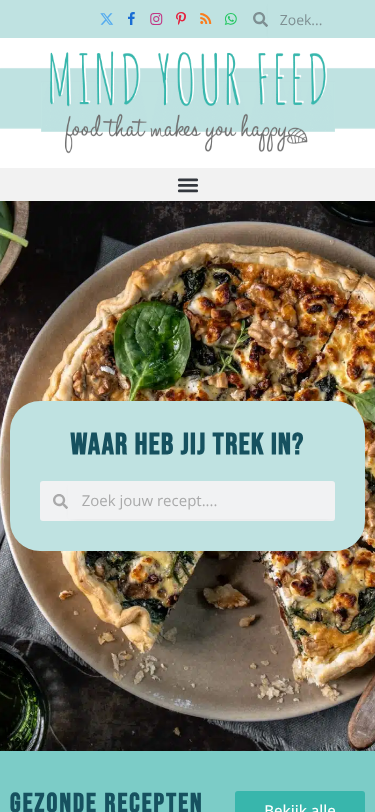
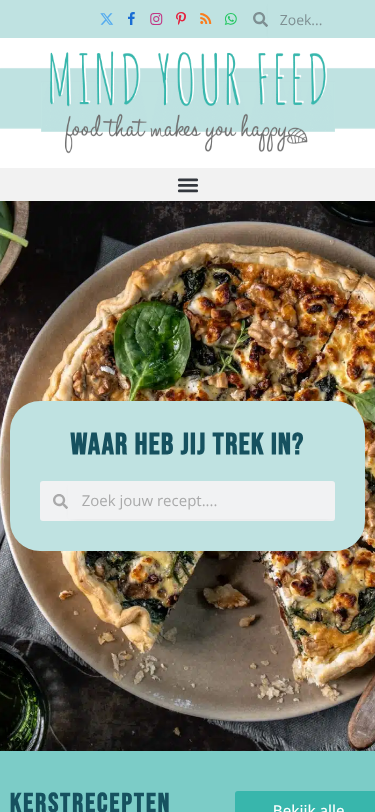
Carrousel /kerst/ hersteld en gecontroleerd; metingen
Claude-Session: https://claude.ai/code/session_01JBZXqu2oGCoAAGo6aGaeXU

Changed region(s): [[0.0293, 0.9544, 0.5573, 1.0], [0.704, 0.9852, 0.9093, 1.0], [0.968, 0.9544, 1.0, 1.0]]

diff --git a/WIJZIGINGEN.md b/WIJZIGINGEN.md
@@ -5,6 +5,7 @@ en de meetwaarden voor/na (Lighthouse mobiel: score, LCP).
 
 | Datum | Pagina / post | Wat is er gewijzigd | Waarom | Snelheid voor → na |
 |---|---|---|---|---|
+| 2026-11-27 | Hele site – WP Rocket; Kerst (`/kerst/`) | Uitzonderingen `/wp-includes/js/jquery/ui/core.min.js` en `uiBackCompat` toegevoegd aan 'JavaScript-uitvoering uitstellen' door eigenaar (totaal 15). Live gecontroleerd: carrousel 'Populaire kerstrecepten' start, pijlen schuiven, 1 slide op mobiel / 3 op desktop, geen JS-fouten. Regressie Home + post: menu, foto's, slideshow, zoeken, receptkaart, nieuwsbrief ok. Screenshots `metingen/screenshots/2026-11-27_kerst-carrousel_*` | Herstel carrousel | Kerst 54–62; Home 60–61 (was 59) |
 | 2026-11-27 | Kerst (`/kerst/`), Loop carrousel 'Populaire kerstrecepten' | **Probleem gemeld door eigenaar:** carrousel werkt niet voor uitgelogde bezoekers (één uitgerekte slide, pijlen doen niets). **Oorzaak:** WP Rocket 'JavaScript-uitvoering uitstellen' stelt jQuery UI core (`/wp-includes/js/jquery/ui/core.min.js` + inline `jQuery.uiBackCompat`) uit; Elementor gebruikt de jQuery UI-selector `:focusable` eerder → fout `unsupported pseudo: focusable` → Elementor-init stopt, `swiper.min.js` wordt nooit geladen. Met `?nowprocket=1` werkt het wel. **Oplossing getest** (testbrowser, live HTML): jQuery UI core uitzonderen → carrousel start, pijlen schuiven, geen fouten (375 en 1440px) | Herstel carrousel | – |
 | 2026-11-25 | – (cloudomgeving) | `www.google.com` en `www.gstatic.com` toegestaan in de omgeving MindYourfeed (op verzoek eigenaar) | reCAPTCHA van het nieuwsbriefformulier live kunnen controleren | – |
 | 2026-11-25 | Hele site – WP Rocket | **Ontbrekende afbeeldingsafmetingen toevoegen** aangezet door eigenaar. Gecontroleerd: avocado-post 22/23 en speculaas-post 17/21 afbeeldingen kregen breedte/hoogte; `Goulash-1-2.jpg` ook. Overgebleven: alleen afbeeldingen op de externe S3-server (slaat WP Rocket over). Visueel pixel voor pixel identiek (avocado, speculaas, post, Home × 375/768/1440 + menu); geen vervormde foto's (verhouding gecontroleerd) | Stap 5 van het WP Rocket-plan | Avocado 63–64 → 59–62, speculaas 59–64 → 58–61 (binnen meetruis); CLS 0 blijft 0 |

diff --git a/TODO.md b/TODO.md
@@ -1,7 +1,6 @@
 # Todo
 
 ## Nu
-- [ ] **Carrousel /kerst/ kapot voor bezoekers:** eigenaar voegt bij 'JavaScript-uitvoering uitstellen' de uitzonderingen `/wp-includes/js/jquery/ui/core.min.js` en `uiBackCompat` toe; daarna live controleren (/kerst/ + menu/foto's op home en post).
 - [ ] Kerstrecepten-formulier (`formulieren/nieuwsbrief-kerstrecepten.html`) eerst testen op een conceptpagina: zelfde ID's als het footerformulier (sib-form, EMAIL, OPT_IN …). Controleren dat beide formulieren werken (melding + adres in juiste Brevo-lijst). Werkt het niet samen: Brevo-iframe-variant gebruiken voor één van beide.
 - [ ] Nieuwsbriefformulier footer: reCAPTCHA v3 werkt live (badge + token na scrollen). Nog te doen door eigenaar: één echte testinschrijving (bevestigingsmelding? adres in Brevo?).
 - [ ] Eigenaar: advertenties (Mediavine) controleren op telefoon, vóór en na eerste scroll; en snelheid laten meten met PageSpeed Insights of Rocket Insights (echte winst van stap 2 zichtbaar met advertenties).
@@ -40,6 +39,7 @@
 - [ ] Dezelfde review uitvoeren op alle 2160 posts.
 
 ## Afgerond
+- [x] 2026-11-27: Carrousel 'Populaire kerstrecepten' op /kerst/ hersteld (jQuery UI uitgezonderd van uitstellen).
 - [x] 2026-11-25: WP Rocket stap 5 (afbeeldingsafmetingen) actief en gecontroleerd; geen vervorming.
 - [x] 2026-11-25: WP Rocket stap 2 (JS-uitvoering uitstellen) actief met 13 uitzonderingen; menu, foto's, slideshow, zoeken, receptkaart en nieuwsbrief gecontroleerd.
 - [x] 2026-11-25: RUCSS uitgezet na kapotte homepage; alle paginatypen visueel weer gelijk aan nulmeting. Home 59.

diff --git a/METINGEN.md b/METINGEN.md
@@ -227,3 +227,16 @@ Post 33918, 375px (Android) en 1440px; formulier niet verstuurd.
 - Door 'JS-uitvoering uitstellen' laadt reCAPTCHA pas na de eerste interactie; bij scrollen naar de footer is het op tijd.
 - Niet gecontroleerd: het Brevo-formulierscript (`sibforms.com`, geblokkeerd in de cloudomgeving) en een echte inschrijving.
 Screenshots: `metingen/screenshots/2026-11-25_recaptcha-badge_*.png`.
+
+## 2026-11-27 – Na uitzondering jQuery UI (carrousel /kerst/)
+
+| Pagina | Run | Prestaties | FCP | LCP | TBT | CLS |
+|---|---|---|---|---|---|---|
+| Kerst (`/kerst/`) | 1 | 54 | 4,8 s | 8,2 s | 360 ms | 0 |
+| Kerst (`/kerst/`) | 2 | 62 | 5,0 s | 8,4 s | 60 ms | 0,011 |
+| Home | 1 | 60 | 4,1 s | 10,8 s | 140 ms | 0 |
+| Home | 2 | 61 | 4,1 s | 10,7 s | 80 ms | 0 |
+
+- Geen voormeting van /kerst/ (carrousel was kapot). Home niet trager dan vóór de uitzondering (59).
+- Uitzonderingen 'JavaScript-uitvoering uitstellen' nu 15: de 13 van 2026-11-25 plus
+  `/wp-includes/js/jquery/ui/core.min.js` en `uiBackCompat`.
